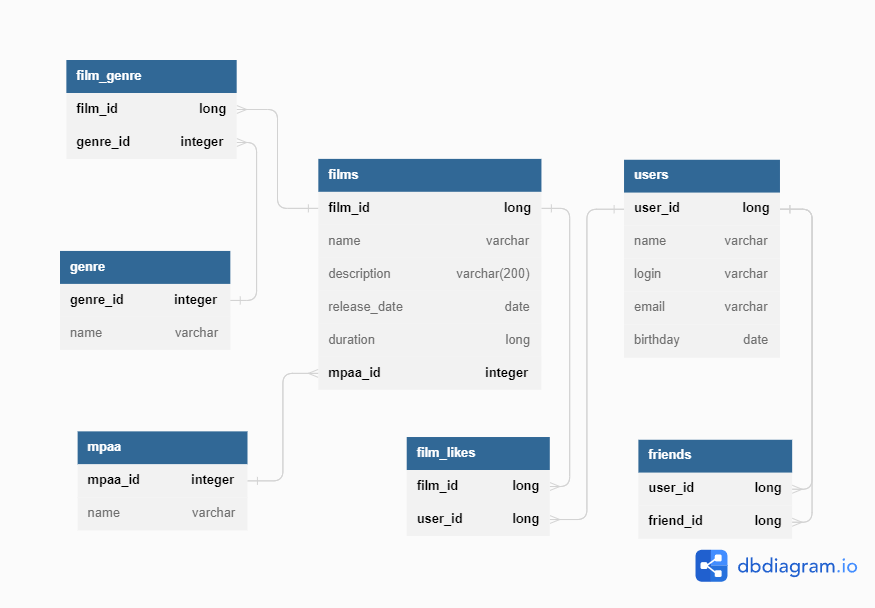
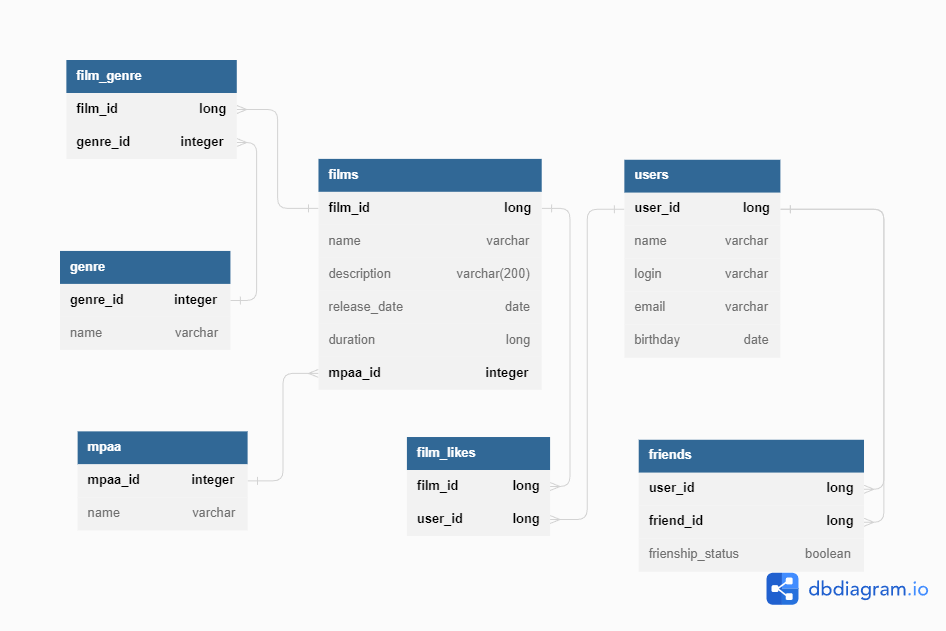
ER диаграмма базы данных, дополнить примеры запросов, добавить статус дружбы

diff --git a/src/main/java/ru/yandex/practicum/filmorate/model/Film.java b/src/main/java/ru/yandex/practicum/filmorate/model/Film.java
@@ -23,9 +23,9 @@ public class Film {
     @Size(max = 200, message = "Описание не должно превышать 200 символов")
     private String description;
 
-    @Positive(message = "Продолжительность не может быть отрицательной")
-    private Long duration;
-
     @DateOfRelease
     private LocalDate releaseDate;
+
+    @Positive(message = "Продолжительность не может быть отрицательной")
+    private Long duration;
 }

diff --git a/README.md b/README.md
@@ -57,14 +57,84 @@ SELECT *
 FROM films;
 ```
 
+</details>
+
+<details>
+  <summary>Запрос на вывод фильма по id</summary> 
+
+```sql
+SELECT * 
+FROM films 
+WHERE film_id = <id> 
+```
+
 </details>  
 
+<details>
+  <summary>Вывод 10 самых популярных фильмов</summary> 
+
+```sql
+SELECT films.film_id, 
+films.name, 
+COUNT(*) as likes_count 
+FROM film_likes JOIN films ON film_likes.film_id = films.film_id 
+GROUP BY films.film_id, films.name 
+ORDER BY likes_count DESC
+LIMIT 10;
+```
+
+</details>  
+
+<details>
+  <summary>Запрос на вывод всех пользователей</summary> 
+
+```sql
+SELECT * 
+FROM users;
+```
+
+</details>  
+
+<details>
+  <summary>Вывод пользователя по id</summary> 
+
+```sql
+SELECT * 
+FROM users 
+WHERE user_id = <id>;
+```
+</details> 
+
+<details>
+  <summary>Вывод всех друзей определенного пользователя</summary> 
+
+```sql
+SELECT users.name, friends.friend_id, friends.frienship_status
+FROM friends JOIN users ON friends.friend_id = users.user_id 
+WHERE friends.user_id = <user_id>;
+-- <user_id> - это значение id пользователя, для которого мы хотели бы получить его друзей.
+```
+
+</details>  
+
+<details>
+  <summary>Вывод общих друзей для двух пользователей (например, с id 1 и 2)</summary> 
+
+```sql
+SELECT f1.friend_id 
+FROM friends f1 JOIN friends f2 ON f1.friend_id = f2.friend_id 
+WHERE f1.user_id = 1 
+AND f2.user_id = 2;
+```
+
+</details>
 
 <details>
   <summary>Получение списка фильмов, вышедших в определенном году</summary>
 
 ```sql
-  SELECT f.name, f.release_year 
+  SELECT f.name, 
+  EXTRACT(YEAR FROM f.release_date) AS release_year,
   FROM films f 
   WHERE f.release_year = 2020;
 ```
@@ -87,7 +157,9 @@ FROM films;
   <summary>Получение списка фильмов определенного жанра</summary>
 
 ```sql
-  SELECT f.name AS title, f.release_year, g.name AS genre
+  SELECT f.name AS title, 
+  EXTRACT(YEAR FROM f.release_date) AS release_year, 
+  g.name AS genre
   FROM films f
   INNER JOIN film_genre fg ON fg.film_id = f.film_id
   INNER JOIN genre g ON g.genre_id = fg.genre_id
@@ -95,5 +167,19 @@ FROM films;
 ```
 
 </details>  
+
+<details>
+  <summary>Количество пользователей, у которых день рождения сегодня</summary>
+
+```sql
+  SELECT COUNT(user_id) 
+  FROM users 
+  WHERE EXTRACT(DAY FROM birthday) = EXTRACT(DAY FROM NOW())
+  AND EXTRACT(MONTH FROM birthday) = EXTRACT(MONTH FROM NOW());
+```
+
+</details>  
+
+
 
 
